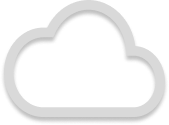
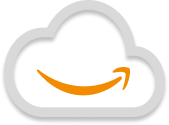
Added a vmware png for the cards section, updated cards png style and colorwave

Changed region(s): [[0.2071, 0.528, 0.7692, 0.768]]

diff --git a/src/constants/index.js b/src/constants/index.js
@@ -16,6 +16,7 @@ import {
   react,
   linux,
   youtube,
+  vmware,
   Texada,
   Agio,
 
@@ -44,16 +45,16 @@ const services = [
     icon: linux,
   },
   {
-    title: "Cloud",
+    title: "Cloud Engineer",
     icon: cloud,
+  },
+  {
+    title: "Virtualization",
+    icon: vmware,
   },
   {
     title: "Web Developer",
     icon: react,
-  },
-  {
-    title: "Content Creator",
-    icon: youtube,
   },
   {
     title: "Content Creator",

diff --git a/src/assets/index.js b/src/assets/index.js
@@ -5,6 +5,7 @@ import github from "./github.png";
 import cloud from "./cloud.png";
 import react from "./react.png";
 import linux from "./linux.png";
+import vmware from "./vmware.png"
 import youtube from "./youtube.png";
 import youtube_circle from "./youtube_circle.png";
 import profile from "./profile.jpg";
@@ -50,6 +51,7 @@ export {
   linux,
   cloud,
   react,
+  vmware,
   youtube,
   youtube_circle,
   Agio,
